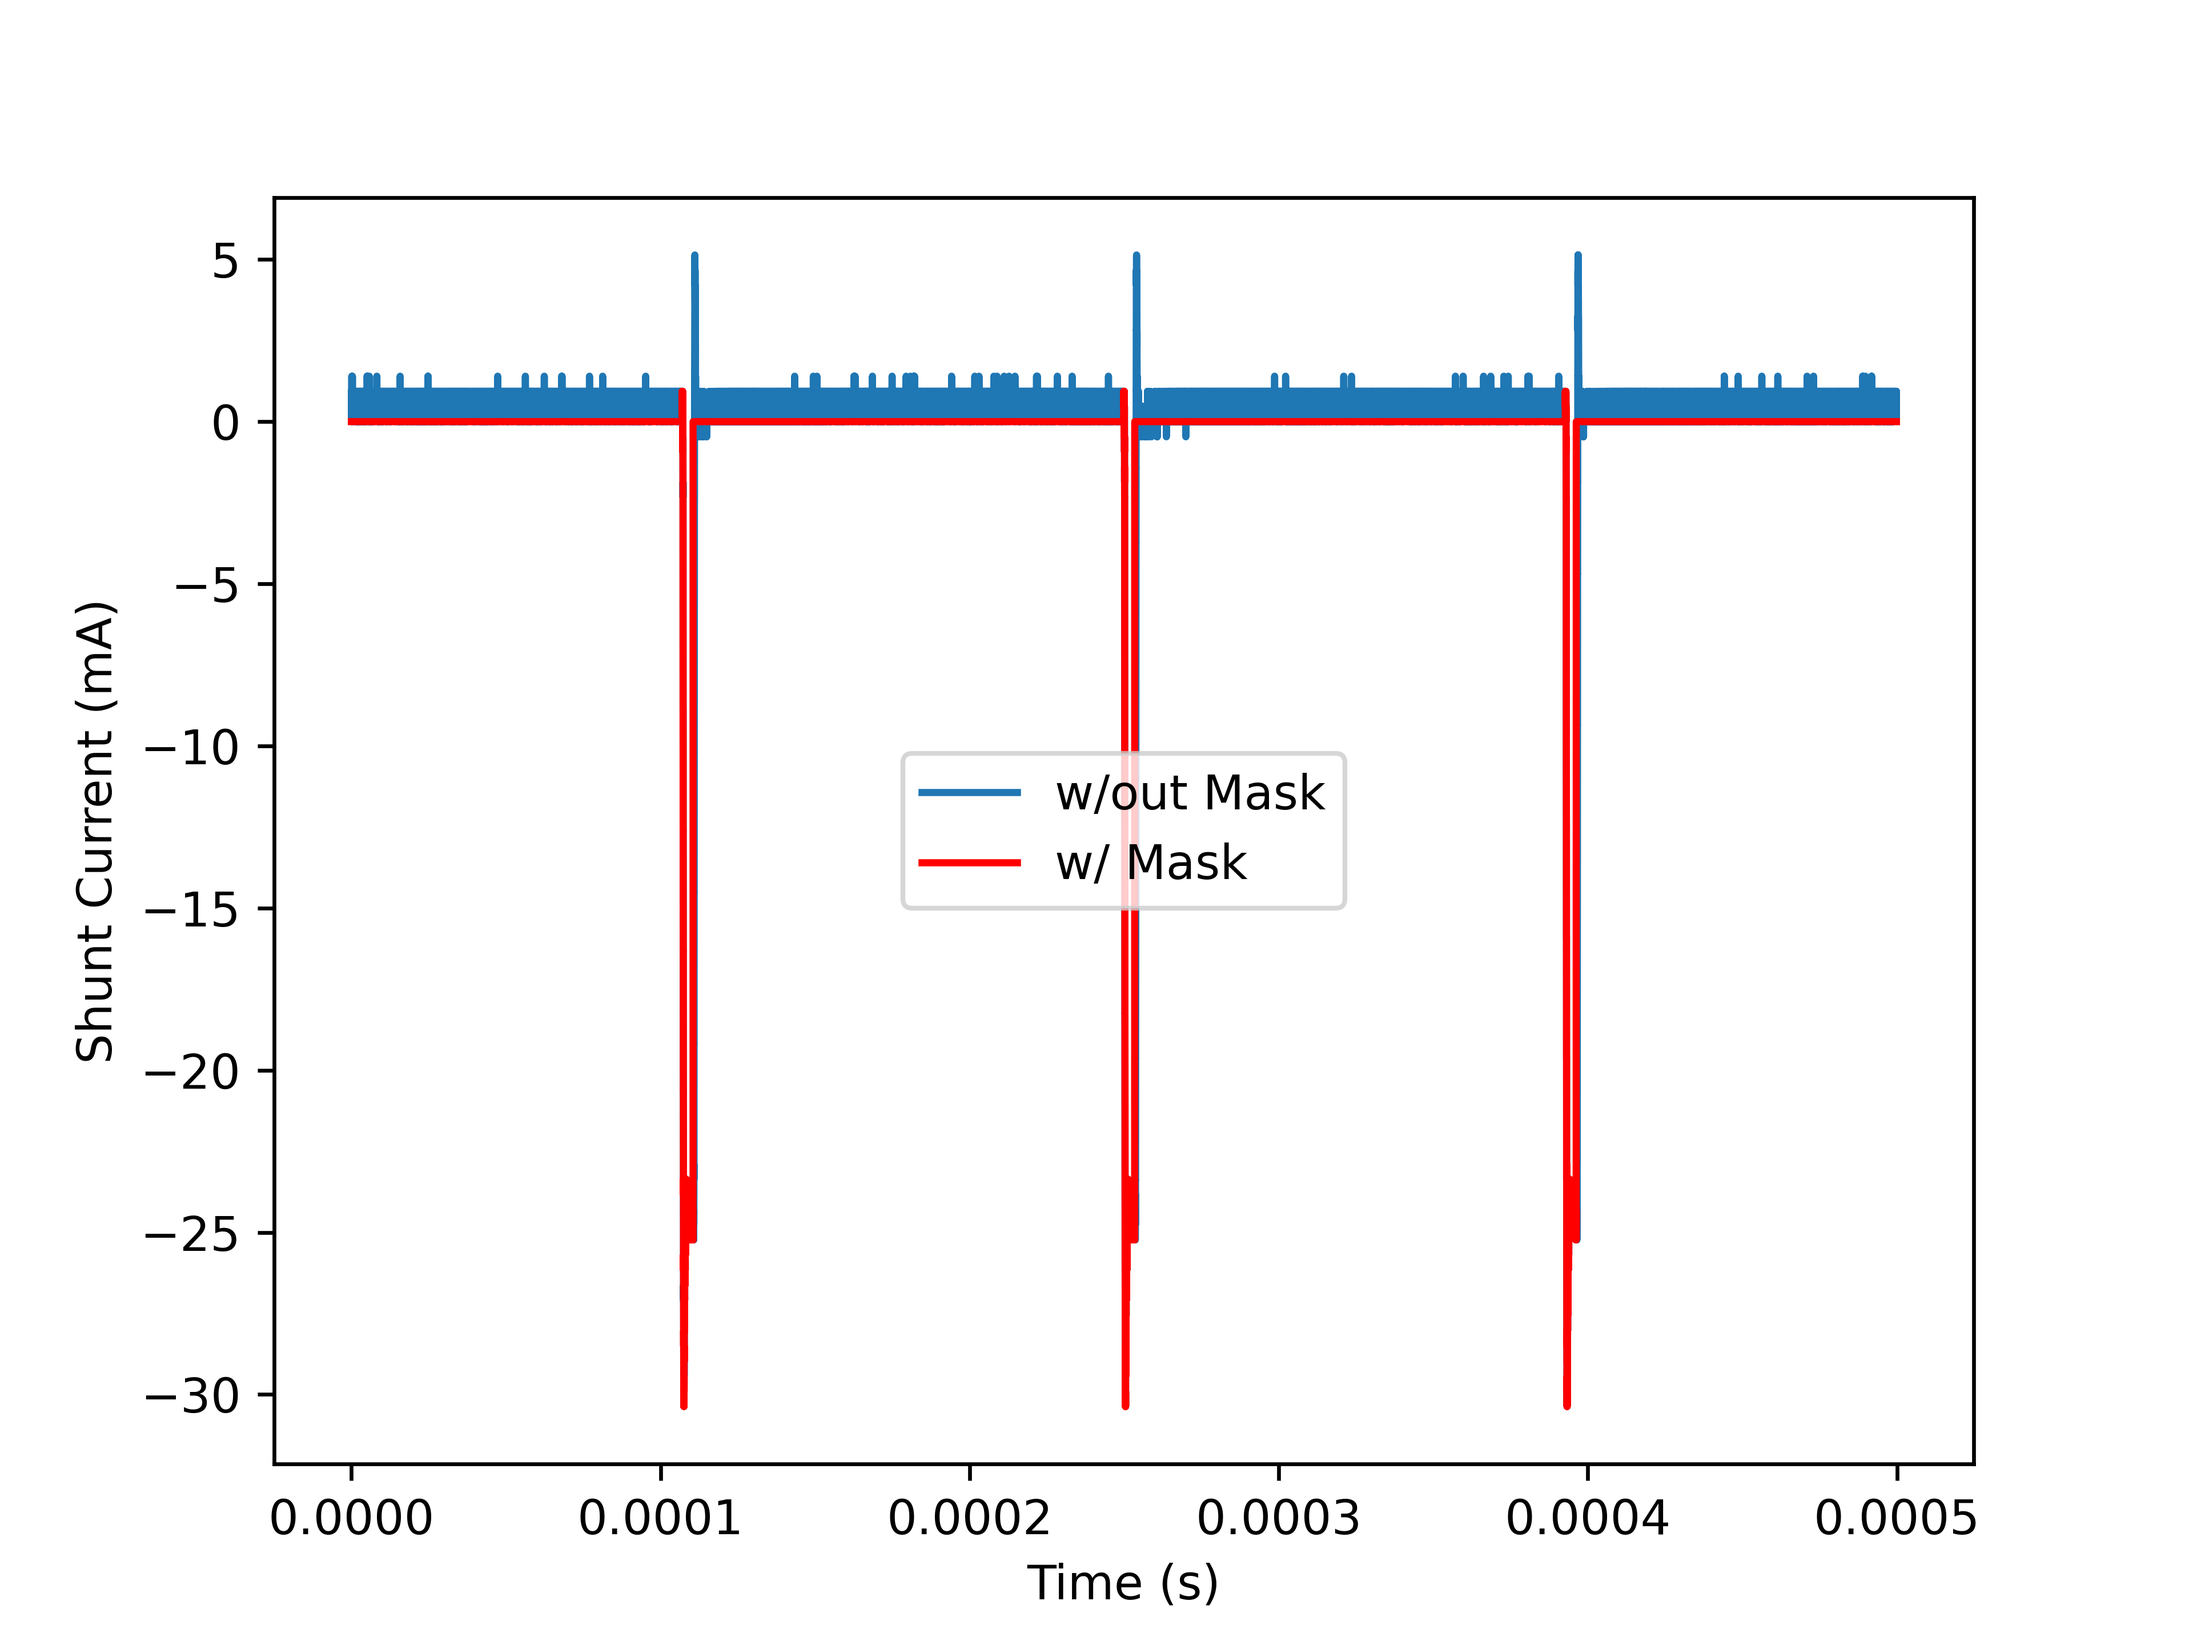
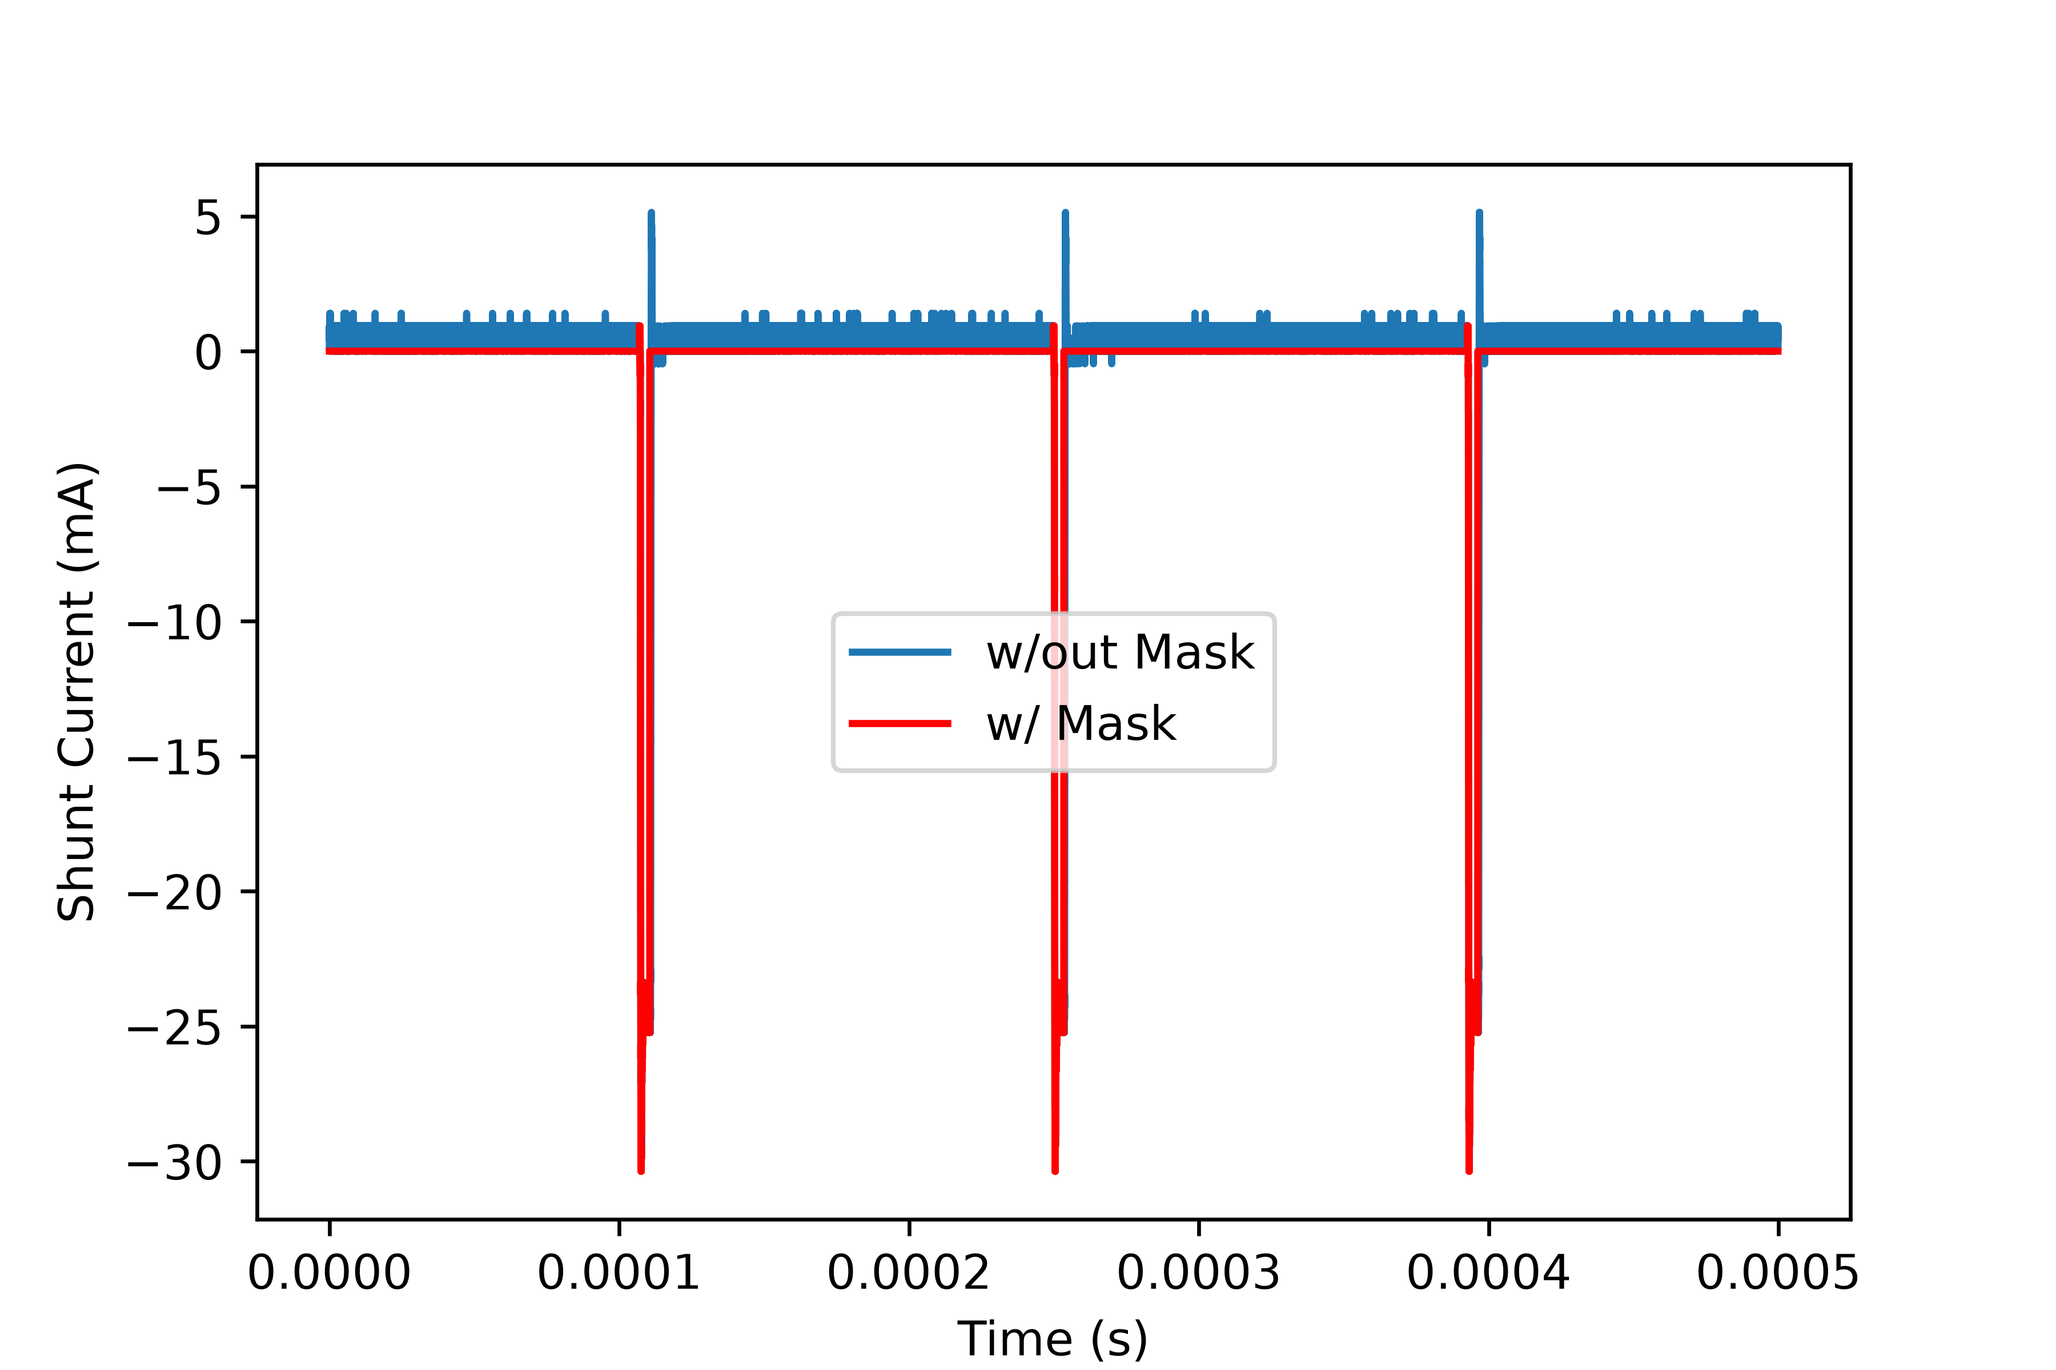
ISE data and some exploration for 2.5% experiments

diff --git a/ise_calibration.py b/ise_calibration.py
@@ -48,21 +48,21 @@ from scipy import stats
 data_dir = "./ISE"
 
 # Identify relevant Master Data File
-master_data_file = "./MasterDataFiles/DC_Ar_50mM.csv"
+master_data_file = "./MasterDataFiles/Ar_50mM_pulsed.csv"
 
 # set measurement date
-date = datetime.date(2026, 9, 2) # testing date
+date = datetime.date(2026, 10, 5) # testing date
 
 # measured std NaCl concentrations and measured voltages
 std_concs = np.array([0.1, 1, 5, 10]) # mM
-std_volts = np.array([267, 210, 165.5, 148.3]) # mV
+std_volts = np.array([257, 201, 157.6, 142.0]) # mV
 
 # measured voltage for initial NaClAc
-blank_NaClAc_volts = 232 # mV @ 50 mM, 150 mM NaClO4
+blank_NaClAc_volts = 226 # mV @ 50 mM, 150 mM NaClO4
 
 # sample names and measured voltages
-sample_names = ['18DCA', '16DCA', '17DCA']
-sample_volts = np.array([202, 191, 178.7]) # mV
+sample_names = ['2.5_4','2.5_5','2.5_6','2.5_7','2.5_8','2.5_9']
+sample_volts = np.array([208,214,208,213,201,208]) # mV
 
 # set dilution factor
 # ex: dilution = 2 if diluting 10 mL (200 mM IS) to 20 mL (100 mM IS) with DI.
@@ -80,15 +80,17 @@ time_hrs = 1.0 # hour
 
 # Get average currents for the samples from the master data file
 # Read the master data file into a pandas dataframe
-master_df = pd.read_csv(master_data_file, header=1)  # Skip the first row which is just info
+master_df = pd.read_csv(master_data_file, header=0)  # Skip the first row which is just info
 
 # Extract the average currents for the samples
 sample_avg_currents = []
 for name in sample_names:
-    if name not in master_df['Sample ID'].values:
+    if name not in master_df['sample_ID'].values:
         raise ValueError(f"Sample name {name} not found in the master data file.") 
     else:
-        sample_avg_currents.append(master_df.loc[master_df['Sample ID'] == name, 'Average Current (mA)'].values[0])
+        sample_avg_currents.append(master_df.loc[master_df['sample_ID'] == name, 'average_current_mA'].values[0])
+# flip sign
+sample_avg_currents = np.multiply(sample_avg_currents,-1)
 
 # Count number of standards and make sure the lengths of the arrays match
 num_stds = len(std_concs)
@@ -166,6 +168,7 @@ with open(output_file, 'w') as file:
     file.write(f'Date: {date}\n')
     df.to_csv(file, index=False)
 
+"""
 # Store data of ISE measurement and FE of each sample to master data file
 # Master data file location: ./MasterDataFiles/DC_Ar_50mM.csv
 # Append the data to the master data file
@@ -181,6 +184,7 @@ for i, name in enumerate(sample_names):
 with open(master_data_file, 'w') as file:
     file.write(master_header)
     master_df.to_csv(file, index=False)
+"""
 
 # --- End of Data Storage ---
 

diff --git a/Electrical/explore_trace.py b/Electrical/explore_trace.py
@@ -73,7 +73,16 @@ ax.scatter(time_vals, I_shunt, s=1, label="w/out Mask")
 ax.scatter(time_vals, I_shunt_masked, s=1, color='r', label="w/ Mask")
 ax.set_xlabel("Time (s)")
 ax.set_ylabel("Shunt Current (mA)")
-ax.set_ylim(bottom=-15)
-ax.set_xlim(left=5e-4, right=2e-3)
+ax.set_xlim(left=0.9e-4, right=1.5e-4)
 plt.legend()
 plt.savefig("current_explore_zoom.png",dpi=600)
+
+# Plot CH2 - zoom
+CH2_vals = df["CH2(V)"].to_numpy()
+fig4, ax = plt.subplots()
+ax.scatter(time_vals, CH2_vals, s=1)
+ax.set_xlabel("Time (s)")
+ax.set_ylabel("Cell Voltage (V)")
+ax.set_xlim(left=0.9e-4, right=1.5e-4)
+plt.legend()
+plt.savefig("cell_voltage_zoomed.png",dpi=600)

diff --git a/Electrical/batch_analyze_waveform.py b/Electrical/batch_analyze_waveform.py
@@ -91,9 +91,9 @@ def store_waveform_to_masterfile(rows, masterfile_path):
     return master_df
 
 if __name__ == "__main__":          # ← the guard, bottom of the file
-    directory = "./09_28"
-    collection_date = "2026-09-28"
-    masterfile = "../MasterDataFiles/sample_pulsed.csv"
+    directory = "./10_05"
+    collection_date = "2026-10-05"
+    masterfile = "../MasterDataFiles/Ar_50mM_pulsed.csv"
     rows = batch_analyze_waveform(directory, collection_date)   # your real folder path
     df = store_waveform_to_masterfile(rows, masterfile)
     print(df)
